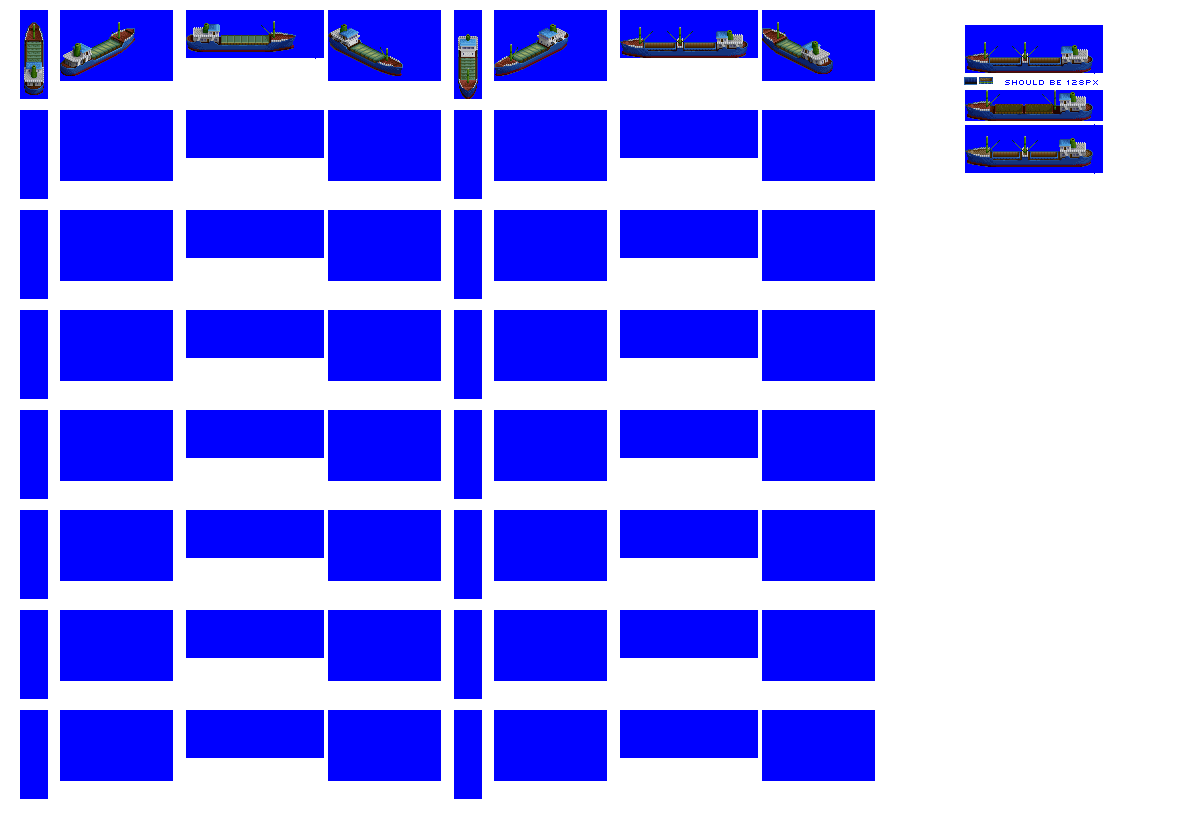
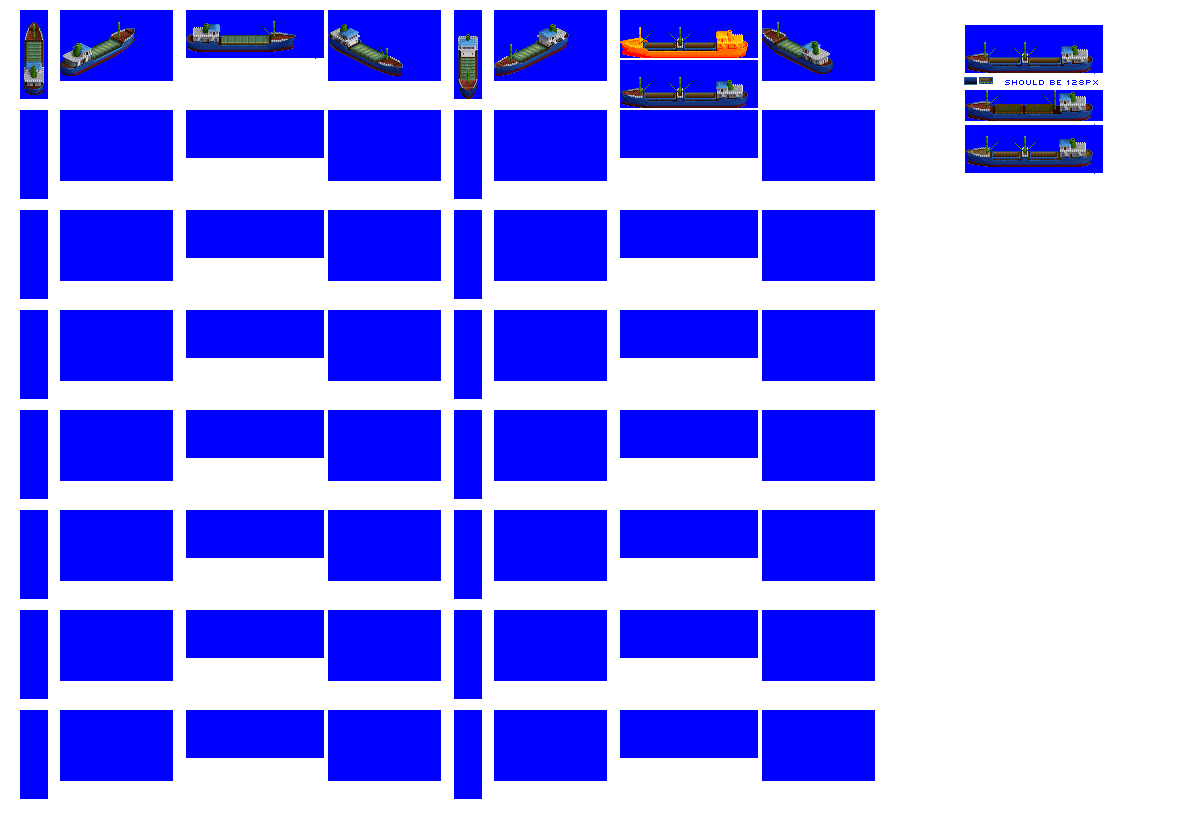
Change: hull comping proof-of-concept

Changed region(s): [[0.4933, 0.0305, 0.6475, 0.1524]]

diff --git a/src/graphics_processor/pipelines.py b/src/graphics_processor/pipelines.py
@@ -101,6 +101,7 @@ class ExtendSpriterowsForCompositedCargosPipeline(Pipeline):
         super(ExtendSpriterowsForCompositedCargosPipeline, self).__init__("extend_spriterows_for_composited_cargos_pipeline")
 
     def extend_base_image_to_3_rows_with_hull_masked_per_load_state(self, base_image):
+
         crop_box_mask_1 = (0,
                            self.base_offset,
                            graphics_constants.spritesheet_width,
@@ -109,6 +110,20 @@ class ExtendSpriterowsForCompositedCargosPipeline(Pipeline):
                            self.base_offset + graphics_constants.spriterow_height,
                            graphics_constants.spritesheet_width,
                            self.base_offset + (2 * graphics_constants.spriterow_height))
+
+        crop_box_foo_dest_1 = (0,
+                                0,
+                                graphics_constants.spritesheet_width,
+                                graphics_constants.spriterow_height)
+
+        foo = Image.open(os.path.join('src','graphics','hulls','test_large_rear_house.png')).crop(crop_box_mask_1)
+        #foo.show()
+        bar = base_image.point(lambda i: 255 if (i in range(96, 104) or i == 0) else i)
+        #bar.show()
+        bar_mask = bar.copy()
+        bar_mask = bar_mask.point(lambda i: 0 if i == 255 else 255).convert("1")
+        foo.paste(bar, crop_box_foo_dest_1, bar_mask)
+
         # no hull (load state) mask for row 1,
         hull_mask_row_2 = Image.open(os.path.join('src','graphics','hull_masks','ship_128px.png')).crop(crop_box_mask_1).point(lambda i: 0 if i == 226 else 255).convert("1")
         hull_mask_row_3 = Image.open(os.path.join('src','graphics','hull_masks','ship_128px.png')).crop(crop_box_mask_2).point(lambda i: 0 if i == 226 else 255).convert("1")
@@ -129,10 +144,13 @@ class ExtendSpriterowsForCompositedCargosPipeline(Pipeline):
 
         result_image = Image.new("P", (graphics_constants.spritesheet_width, 3 * graphics_constants.spriterow_height))
         result_image.putpalette(DOS_PALETTE)
-        result_image.paste(base_image, crop_box_comp_dest_1)
-        result_image.paste(base_image, crop_box_comp_dest_2, hull_mask_row_2)
-        result_image.paste(base_image, crop_box_comp_dest_3, hull_mask_row_3)
+        result_image.paste(foo, crop_box_comp_dest_1)
+        result_image.paste(foo, crop_box_comp_dest_2, hull_mask_row_2)
+        result_image.paste(foo, crop_box_comp_dest_3, hull_mask_row_3)
         #result_image.show()
+
+        #foo.show()
+
         return result_image
 
     def add_generic_spriterow(self):
